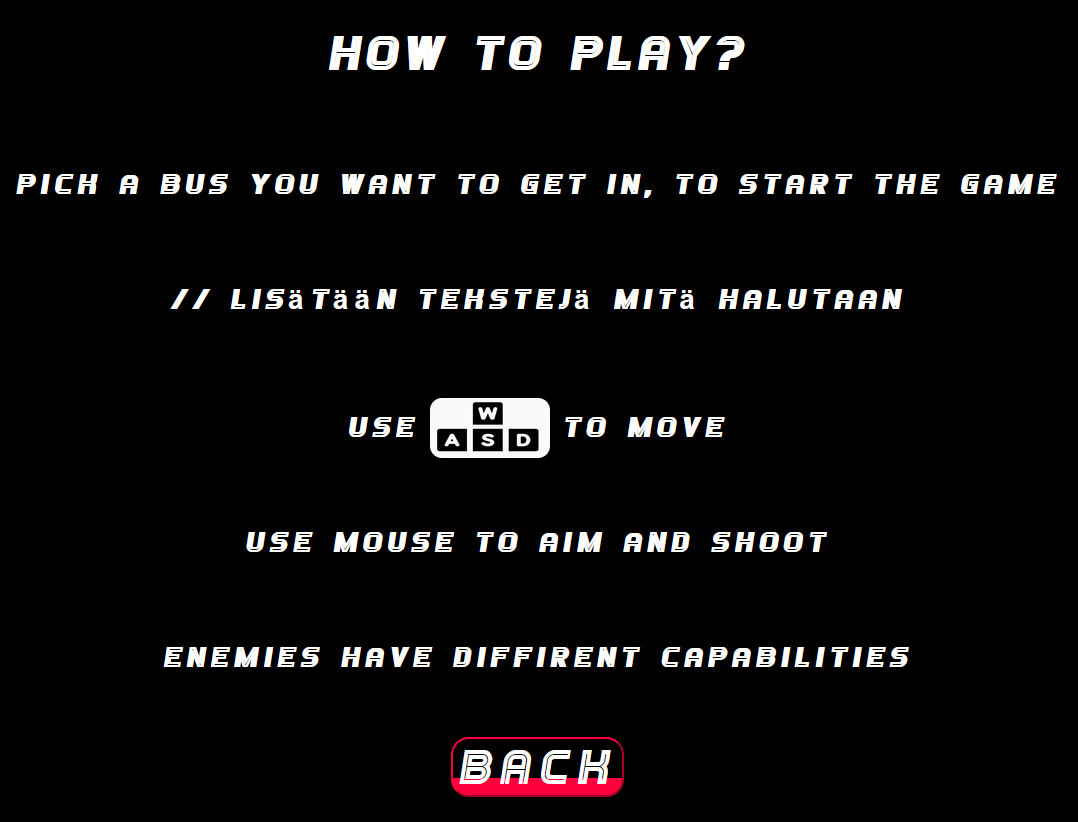
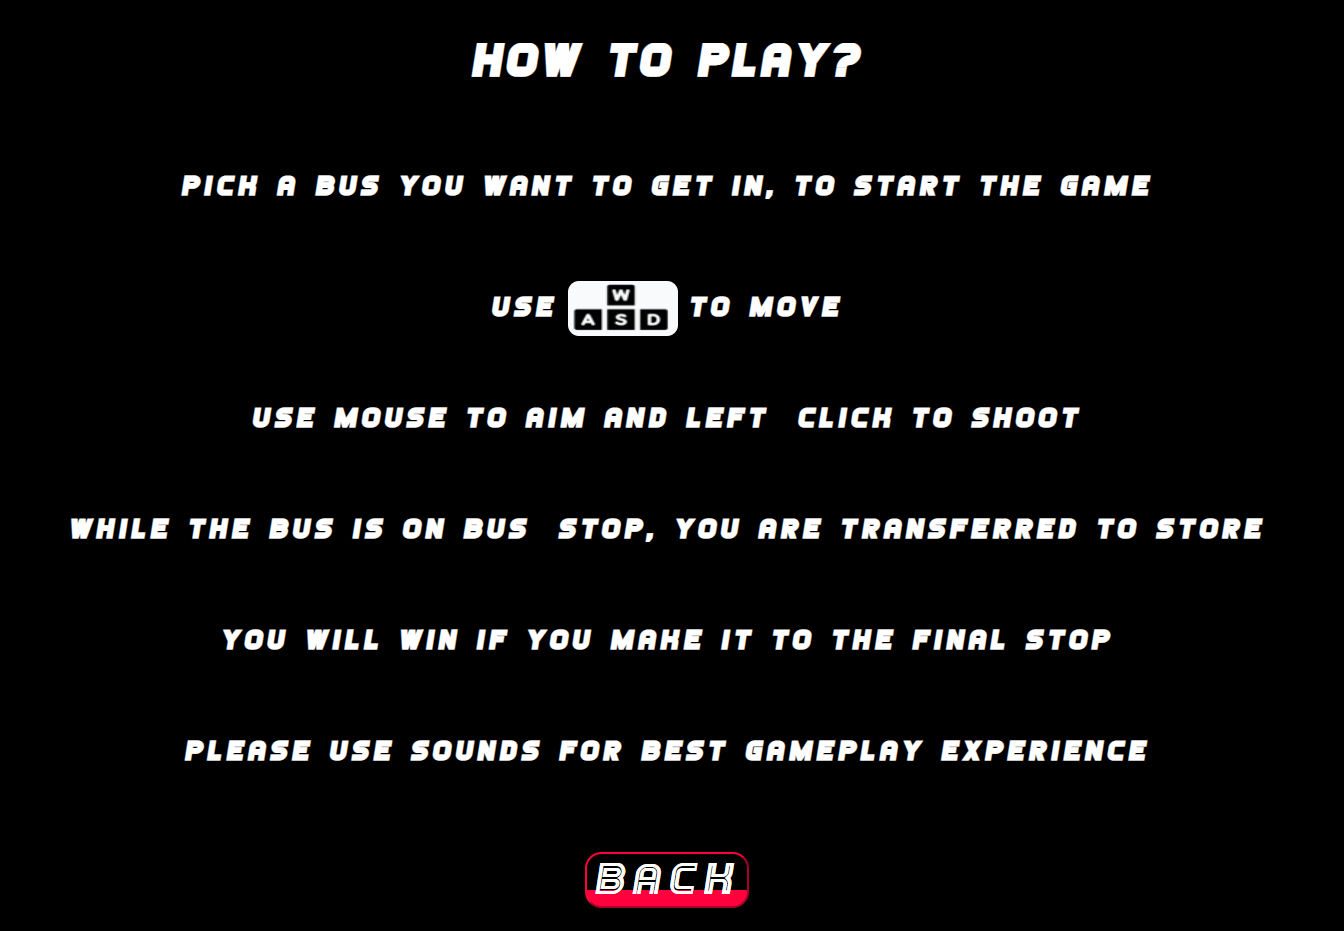
updating readme pictures

diff --git a/src/Components/HowToPlay.js b/src/Components/HowToPlay.js
@@ -18,9 +18,6 @@ function HowToPlay() {
             <br />
             <h3>Pick a bus you want to get in, to start the game</h3>
             <br />
-            <h3>While the bus is on bus-stop, you are transferred to store</h3>
-            <br />
-            <h3>You will win if you make it to the final stop</h3>
             <h3>Use
                 <img src={wasdnew}
                     style={{
@@ -35,6 +32,12 @@ function HowToPlay() {
             <br />
             <h3>Use mouse to aim and left-click to shoot</h3>
             <br />
+            <h3>While the bus is on bus-stop, you are transferred to store</h3>
+            <br />
+            <h3>You will win if you make it to the final stop</h3>
+            <br/>
+            <h3>Please use sounds for best gameplay experience</h3>
+            <br/>
             <button onClick={handleRoute} className="backButton">Back</button>
         </div>
     )

diff --git a/src/App.css b/src/App.css
@@ -48,7 +48,7 @@ body {
 
 
 .HowTo {
-  font-size: 20px;
+  font-size: 21px;
   font-family: 'Games', sans-serif;           
   border: 1;
   border-color: #000000;
